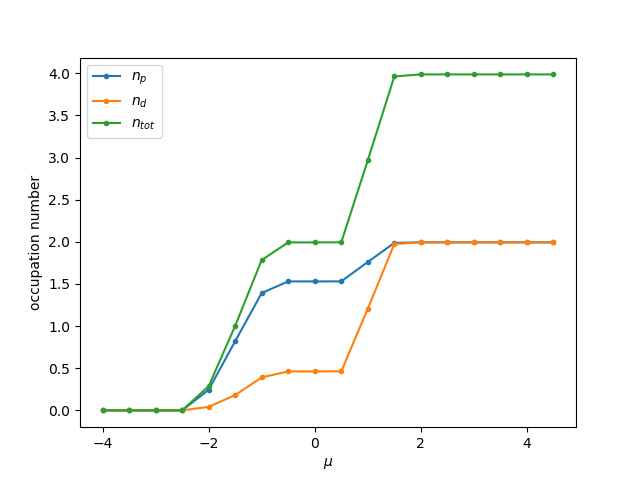
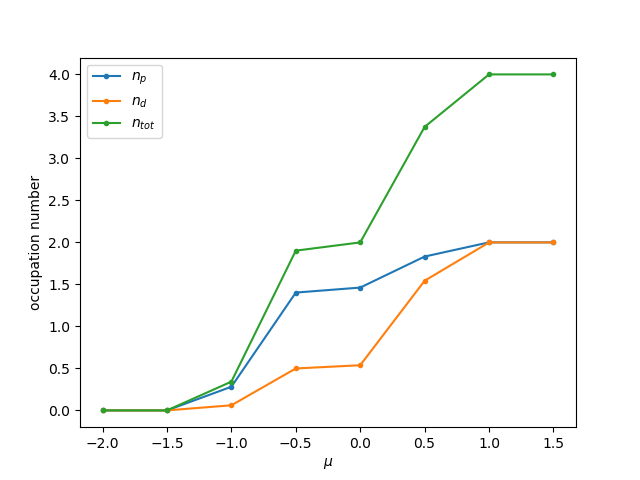
latest update

diff --git a/hf/hf_pam.py b/hf/hf_pam.py
@@ -1,154 +1,212 @@
 import numpy as np
 import matplotlib.pyplot as plt
+from mpi4py import MPI
+
+comm = MPI.COMM_WORLD
+rank = comm.Get_rank()
 
 e_p = 0.0       # energy of p-orbital electron
+t_pp = 0.5      # p-p orbital hopping
 n_p = 0.0       # p-orbital electron number
 U = 0.5         # interaction term
 mu = 0.0        # chemical potential
 mix = 0.5       # ratio of old and new n_d 
-band_up = []    # up-spin energy band
-band_dn = []    # down-spin energy band
+T = 1.0/64      # temperature in units of Boltzmann's constant
+de = 1e-3       # energy differential
+band_up = []    # upper energy band
+band_dn = []    # lower energy band  
 energy = []     # range of e_k values
 
-def solve_model(e_p, n_d, mu, U):
+def plane_wave(k):
+    return - 2 * t_pp * np.cos(k)
+
+def fermi_dirac(e, mu, T):
+    return 1.0 / (1 + np.exp((e-mu)/T))
+
+def solve_model(e_p, n_d, mu, U, T):
     D = 1.0     # half-bandwidth
     e_d = 0.0   # energy of d-orbital electron
-    t_pd = 0.9  # orbital hopping    
-    de = 5e-3   # energy differential
-    n_p_up = 0.0# p-orbital up-spin electron number
-    n_d_up = 0.0# d-orbital up-spin electron number
-    n_p_dn = 0.0# p-orbital down-spin electron number
-    n_d_dn = 0.0# d-orbital down-spin electron number    
+    t_pd = 0.9  # p-d orbital hopping     
+    n_p_up = 0.0# p-orbital upper band electron number
+    n_d_up = 0.0# d-orbital upper band electron number
+    n_p_dn = 0.0# p-orbital lower band electron number
+    n_d_dn = 0.0# d-orbital lower band electron number    
     global band_up 
     global band_dn 
     global energy
     
     band_up = []
-    band_dn = []    
+    band_dn = [] 
     energy = [] 
     
-    for e_k in np.arange(-D + 0.001*de, D - 0.001*de, de):
-        is_zero_freq = e_k > - de/2 and e_k < de/2  
-        # discard 0 energy to avoid division by 0
-        if (not is_zero_freq):
-            # compute orbital energy
-            E_p = e_p - mu + e_k
-            E_d = e_d - mu + U * (n_d - 1/2)
-            # compute Bethe lattice DOS
-            rho = 2 * np.sqrt(D**2 - e_k**2)/np.pi
-            # compute eigenvalues
-            a = 1
-            b = -(E_p + E_d)
-            c = E_p * E_d - t_pd**2        
-            lambda_up = (-b + np.sqrt(b**2 - 4*a*c))/(2*a)
-            lambda_dn = (-b - np.sqrt(b**2 - 4*a*c))/(2*a)
-            # compute eigenvectors
-            v_up = [(E_d - lambda_up)/(E_p - lambda_up), 
-                    (lambda_up - E_d)/t_pd]
-            v_dn = [(E_d - lambda_dn)/(E_p - lambda_dn), 
-                    (lambda_dn - E_d)/t_pd]
-            # normalize eigenvectors            
-            v_up /= np.sqrt(v_up[0]**2 + v_up[1]**2)
-            v_dn /= np.sqrt(v_dn[0]**2 + v_dn[1]**2)
-            # compute electron number
-            if lambda_up < 0:
-                n_p_up += 2 * v_up[0]**2 * rho * de
-                n_d_up += 2 * v_up[1]**2 * rho * de
-            if lambda_dn < 0:
-                n_p_dn += 2 * v_dn[0]**2 * rho * de
-                n_d_dn += 2 * v_dn[1]**2 * rho * de
-            
-            band_up.append(lambda_up)
-            band_dn.append(lambda_dn)
-            energy.append(e_k)
+    for e_k in np.arange(-2*t_pp, 2*t_pp, de):
+        # compute orbital energy
+        E_p = e_p - mu + e_k
+        E_d = e_d - mu + U * (n_d - 0.5)
+        # compute Bethe lattice DOS
+        rho = 2 * np.sqrt(D**2 - e_k**2)/np.pi
+        # compute eigenvalues
+        a = 1
+        b = -(E_p + E_d)
+        c = E_p * E_d - t_pd**2        
+        lambda_up = (-b + np.sqrt(b**2 - 4*a*c))/(2*a)
+        lambda_dn = (-b - np.sqrt(b**2 - 4*a*c))/(2*a)
+        # compute eigenvectors
+        v_up = [(E_d - lambda_up)/(E_p - lambda_up), 
+                (lambda_up - E_d)/t_pd]
+        v_dn = [(E_d - lambda_dn)/(E_p - lambda_dn), 
+                (lambda_dn - E_d)/t_pd]
+        # normalize eigenvectors            
+        v_up /= np.sqrt(v_up[0]**2 + v_up[1]**2)
+        v_dn /= np.sqrt(v_dn[0]**2 + v_dn[1]**2)            
+        # compute electron number
+        n_p_up += 2 * v_up[0]**2 * rho * de * \
+                  fermi_dirac(lambda_up, mu, T)
+        n_d_up += 2 * v_up[1]**2 * rho * de * \
+                  fermi_dirac(lambda_up, mu, T)
+        n_p_dn += 2 * v_dn[0]**2 * rho * de * \
+                  fermi_dirac(lambda_dn, mu, T)
+        n_d_dn += 2 * v_dn[1]**2 * rho * de * \
+                  fermi_dirac(lambda_dn, mu, T)               
+        
+        band_up.append(lambda_up)
+        band_dn.append(lambda_dn)
+        energy.append(e_k)
     
     n_p = n_p_up + n_p_dn
     n_d = n_d_up + n_d_dn
     return n_p, n_d
 
 # loop until model converges
-def converge(e_p, n_p, mu, U):  
+def converge(e_p, n_p, mu, U, T):  
     n_loops = 100   # number of loops 
     n_d = 0.0       # d-orbital electron number
     d_n_d = 1e-3    # n_d differential
     for i in range(n_loops):
         n_d_old = n_d
-        n_p, n_d = solve_model(e_p, n_d, mu, U)
+        n_p, n_d = solve_model(e_p, n_d, mu, U, T)
         # mix old and new n_d to speed up convergence
         n_d = mix * n_d + (1 - mix) * n_d_old
         if (abs(n_d_old - n_d) < d_n_d):
             break
-        
-        
     return n_p, n_d
 
 # compute band structures for different e_p values
-'''
-print("computing band structures...")
-fig, ax = plt.subplots()
-for e_p in np.arange(0.0, 1.5, 0.25):
-    print("solving for e_p = " + str(e_p))
-    converge(e_p, n_p, mu, U)
+def bands():
+    mu = 0.529
+    T = 1.0/64
+    U = 0.0
+    print('\ncomputing band structures...\n')
+    fig, ax = plt.subplots()
+    for e_p in [-1.0]:
+        print("solving for e_p = " + str(e_p))
+        converge(e_p, n_p, mu, U, T)
+            
+        plt.plot(energy, band_up, 
+                 label = r'$\lambda_{\uparrow} \epsilon_p=$' + str(e_p))
         
-    plt.plot(energy, band_up, 
-             label = r'$\lambda_{\uparrow} \epsilon_p=$' + str(e_p))
-    
-    plt.plot(energy, band_dn, 
-             label = r'$\lambda_{\downarrow} \epsilon_p=$' + str(e_p))
-ax.legend()
-ax.set(xlabel = r'$\epsilon_k$')
-plt.savefig('bands.png')
-plt.clf()
-'''
+        plt.plot(energy, band_dn, 
+                 label = r'$\lambda_{\downarrow} \epsilon_p=$' + str(e_p))
+    ax.legend()
+    ax.set(xlabel = r'$\epsilon_k$')
+    plt.savefig('bands.png')
+    plt.clf()
+
 
 # compute n_p, n_d for different mu
-'''
-print("\ncomputing occupation numbers...\n")
-fig, ax = plt.subplots()
-e_p = -1.0
-n_p_mu = []
-n_d_mu = []
-mu_range = np.arange(-4, 5, 0.5)
-for mu in mu_range: 
-    print("solving for mu = " + str(mu))
-    n_p, n_d = converge(e_p, n_p, mu, U)
-    n_p_mu.append(n_p)
-    n_d_mu.append(n_d)
-n_tot = [n_p_mu[i] + n_d_mu[i] for i in range(len(n_p_mu))]
-ax.plot(mu_range, n_p_mu, marker='.', label=r'$n_p$')
-ax.plot(mu_range, n_d_mu, marker='.', label=r'$n_d$')
-ax.plot(mu_range, n_tot, marker='.', label=r'$n_{tot}$')
-ax.legend()
-ax.set(xlabel=r'$\mu$', ylabel='occupation number')
-plt.savefig('occ_num.png')
-plt.clf()
-'''
+def occ_num():
+    print('\ncomputing occupation numbers...\n')
+    fig, ax = plt.subplots()
+    e_p = -1.0
+    n_p_mu = []
+    n_d_mu = []
+    mu_range = np.arange(-2, 2.5, 0.5)
+    for mu in mu_range: 
+        print("solving for mu = " + str(mu))
+        n_p, n_d = converge(e_p, n_p, mu, U, T)
+        n_p_mu.append(n_p)
+        n_d_mu.append(n_d)
+    n_tot = [n_p_mu[i] + n_d_mu[i] for i in range(len(n_p_mu))]
+    ax.plot(mu_range, n_p_mu, marker='.', label=r'$n_p$')
+    ax.plot(mu_range, n_d_mu, marker='.', label=r'$n_d$')
+    ax.plot(mu_range, n_tot, marker='.', label=r'$n_{tot}$')
+    ax.legend()
+    ax.set(xlabel=r'$\mu$', ylabel='occupation number')
+    plt.savefig('occ_num.png')
+    plt.clf()
+
 
 # plot phase diagram
-'''
-print("\nplotting phase diagram...\n")
-fig, ax = plt.subplots()
-mu_range = np.arange(0, 5, 0.5)
-U_range = np.arange(0, 4, 0.5)
-n_mu_U = []
-for U in U_range:
-    print("solving for U = " + str(U))
-    n_mu = []
-    for mu in mu_range:
-        print("solving for mu = " + str(mu))
-        n_p, n_d = converge(e_p, n_p, mu, U)
-        n_mu.append(n_p + n_d)
-    n_mu_U.append(n_mu)
-n_mu_U.reverse() # order matrix rows from biggest U to smallest
-im_edges = [mu_range[0], mu_range[len(mu_range)-1],
-            U_range[0], U_range[len(U_range)-1]]
-plt.imshow(n_mu_U, interpolation='none', 
-           extent=im_edges, aspect='auto')
-ax.set_xticks(mu_range)
-ax.set_yticks(U_range)
-ax.set(xlabel=r'$\mu$', ylabel=r'$U$')
-clb = plt.colorbar()
-clb.set_label(r'$n_{tot}$')
-plt.savefig('phase_diag.png')
-plt.close()
-'''
+def phase_diag():
+    print('\nplotting phase diagram...\n')
+    fig, ax = plt.subplots()
+    e_p = -1.0
+    mu_range = np.arange(0, 2.5, 0.25)
+    U_range = np.arange(0, 4, 0.25)
+    n_mu_U = []
+    for U in U_range:
+        print("solving for U = " + str(U))
+        n_mu = []
+        for mu in mu_range:
+            print("solving for mu = " + str(mu))
+            n_p, n_d = converge(e_p, n_p, mu, U, T)
+            n_mu.append(n_p + n_d)
+        n_mu_U.append(n_mu)
+    n_mu_U.reverse() # order matrix rows from biggest U to smallest
+    im_edges = [mu_range[0], mu_range[len(mu_range)-1],
+                U_range[0], U_range[len(U_range)-1]]
+    plt.imshow(n_mu_U, interpolation='none', 
+               extent=im_edges, aspect='auto')
+    ax.set_xticks(mu_range)
+    ax.set_yticks(U_range)
+    ax.set(xlabel=r'$\mu$', ylabel=r'$U$')
+    clb = plt.colorbar()
+    clb.set_label(r'$n_{tot}$')
+    plt.savefig('phase_diag.png')
+    plt.clf()
+
+
+# plot density of states
+def dos():
+    print('\nplotting density of states...\n')
+    e_p = -1.0
+    mu_range = [0.529]
+    U_range = [0]
+    T = np.round(1.0 / 64, 3)
+    domega = 1e-2                          # omega differential
+    omega_range = np.arange(-3, 1, domega) # DOS domain 
+    for U in U_range:
+        print("solving for U = " + str(U))
+        for mu in mu_range:
+            print("solving for mu = " + str(mu))
+            fig, ax = plt.subplots()
+            converge(e_p, n_p, mu, U, T)
+            
+            dos_up = [] # density of states upper band
+            dos_dn = [] # density of states lower band
+
+            for omega in omega_range:
+                dos_omega_up = 0
+                dos_omega_dn = 0
+                for e_up in band_up:
+                    if e_up > omega-domega/2 and e_up < omega+domega/2:
+                        dos_omega_up += 1
+                dos_up.append(dos_omega_up * de/domega)
+                for e_dn in band_dn:
+                    if e_dn > omega-domega/2 and e_dn < omega+domega/2:
+                        dos_omega_dn += 1
+                dos_dn.append(dos_omega_dn * de/domega)
+            
+            plt.plot(omega_range, dos_up, label=r'$\lambda_{\uparrow}$')
+            plt.plot(omega_range, dos_dn, label=r'$\lambda_{\downarrow}$')
+            ax.set_title('U='+str(U)+r' $\mu=$'+str(mu)+' T='+str(T))
+            ax.legend()
+            ax.set(xlabel=r'$\omega$', ylabel=r'$\rho$')
+            plt.savefig('dos/dos_U='+str(U)+'_mu='+str(mu)+ \
+                        '_T='+str(T)+'.png')
+            plt.clf()
+
+# main code
+
+#bands()       
+dos()
